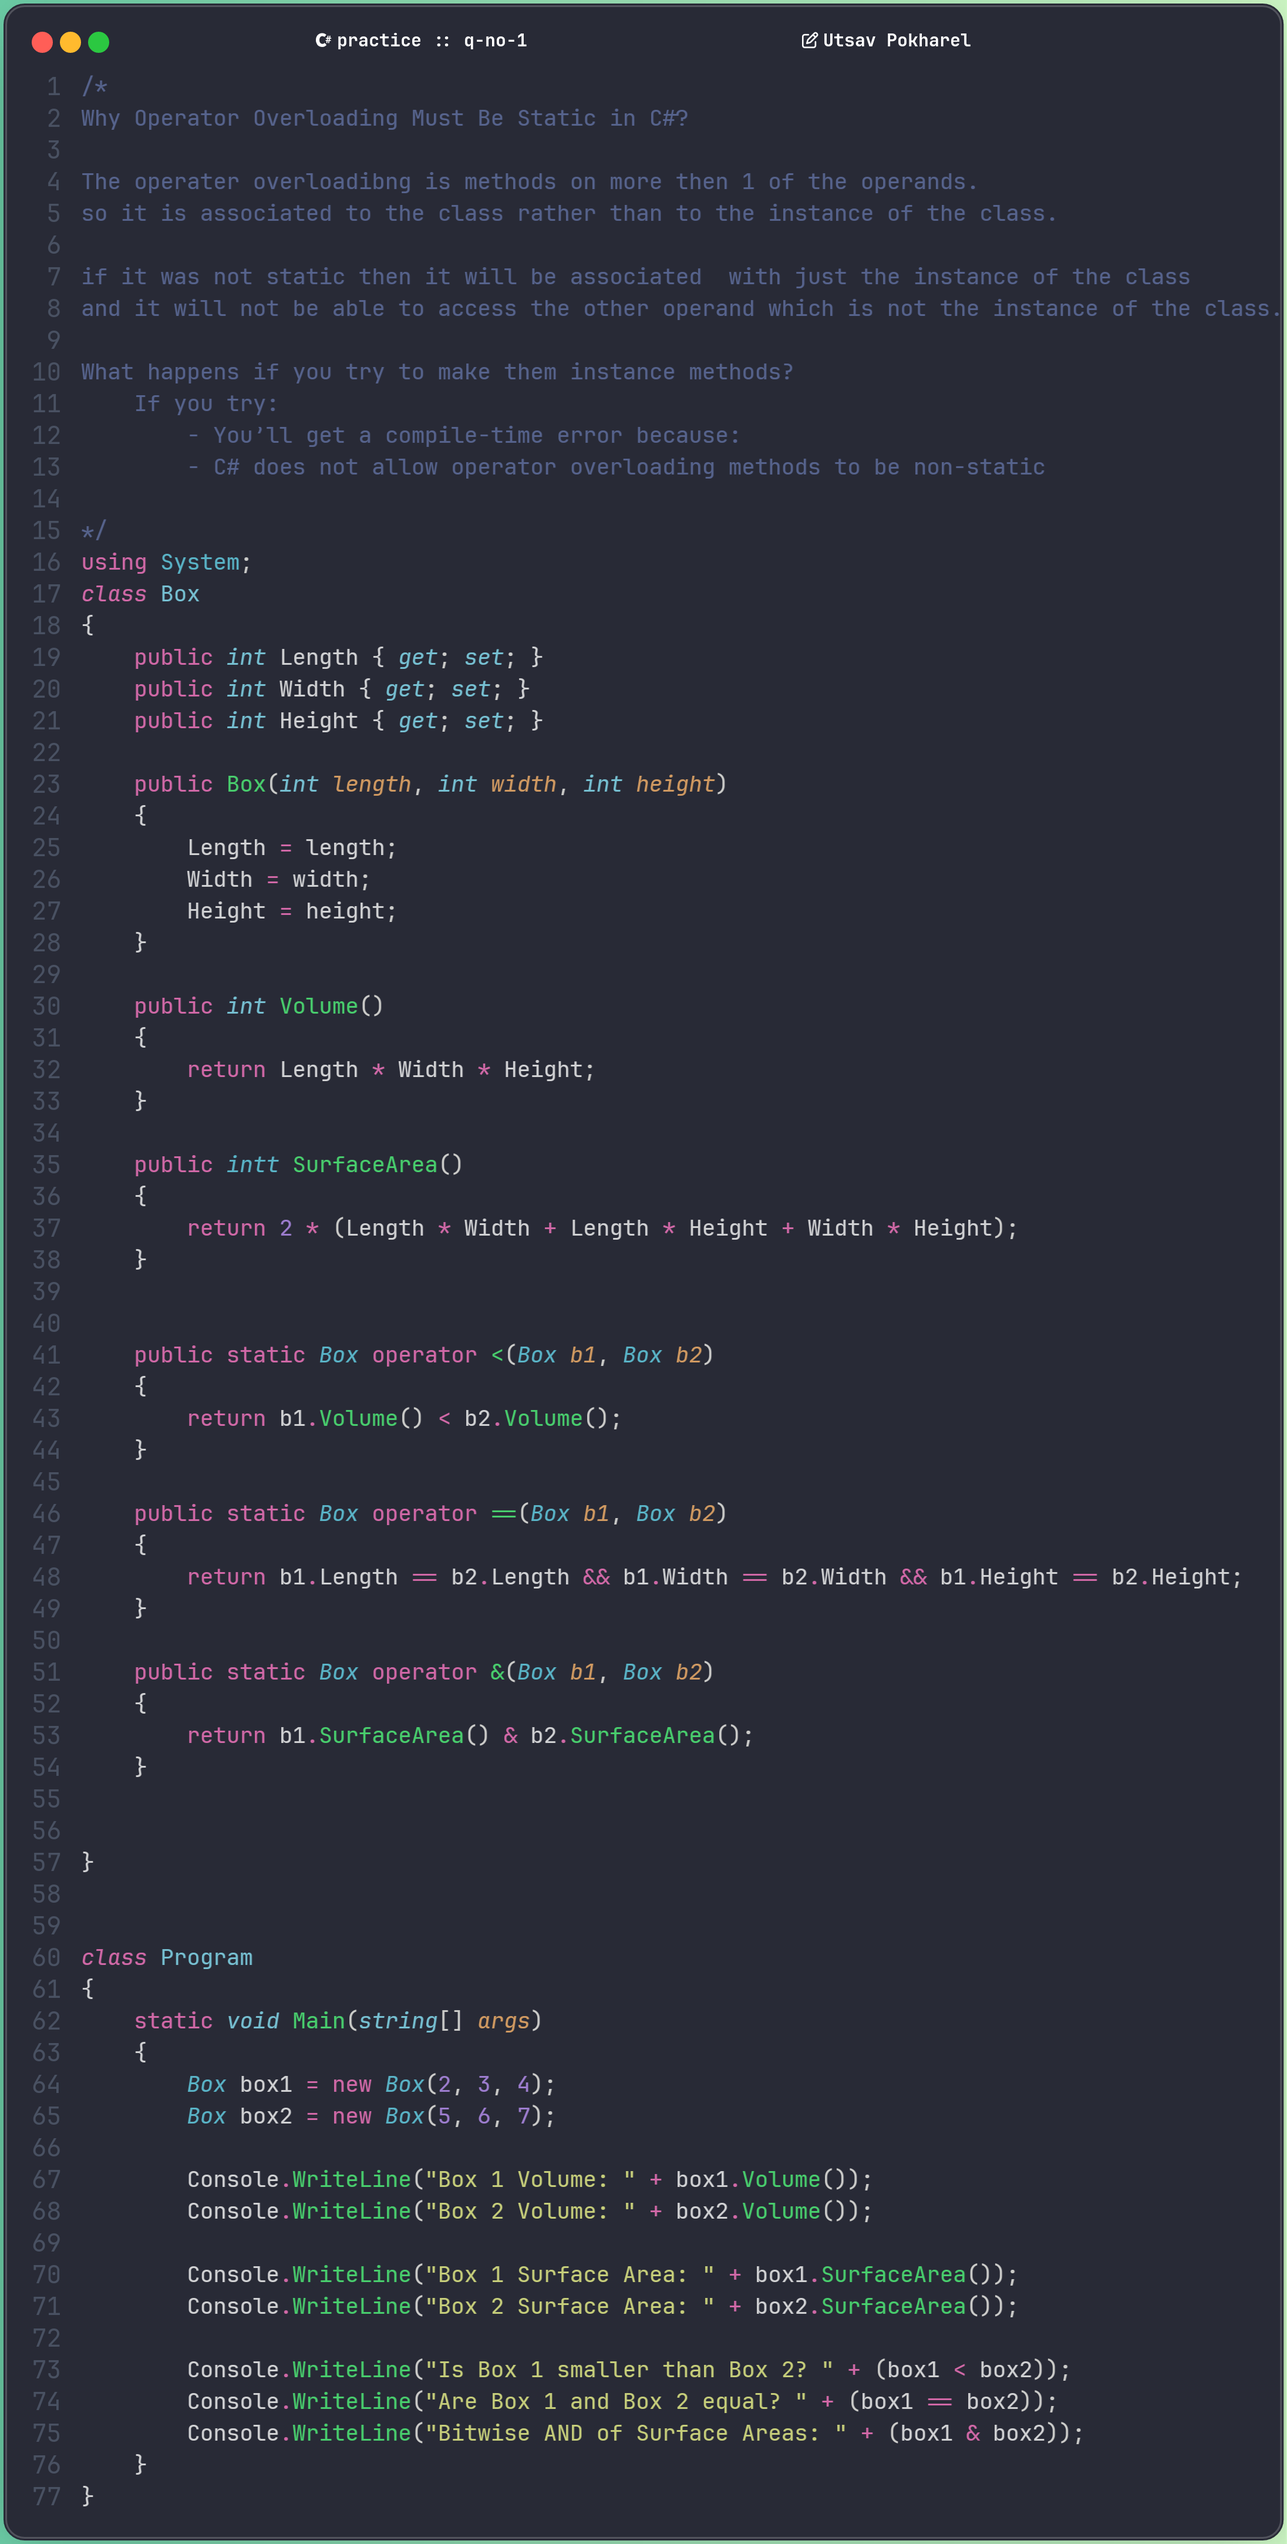
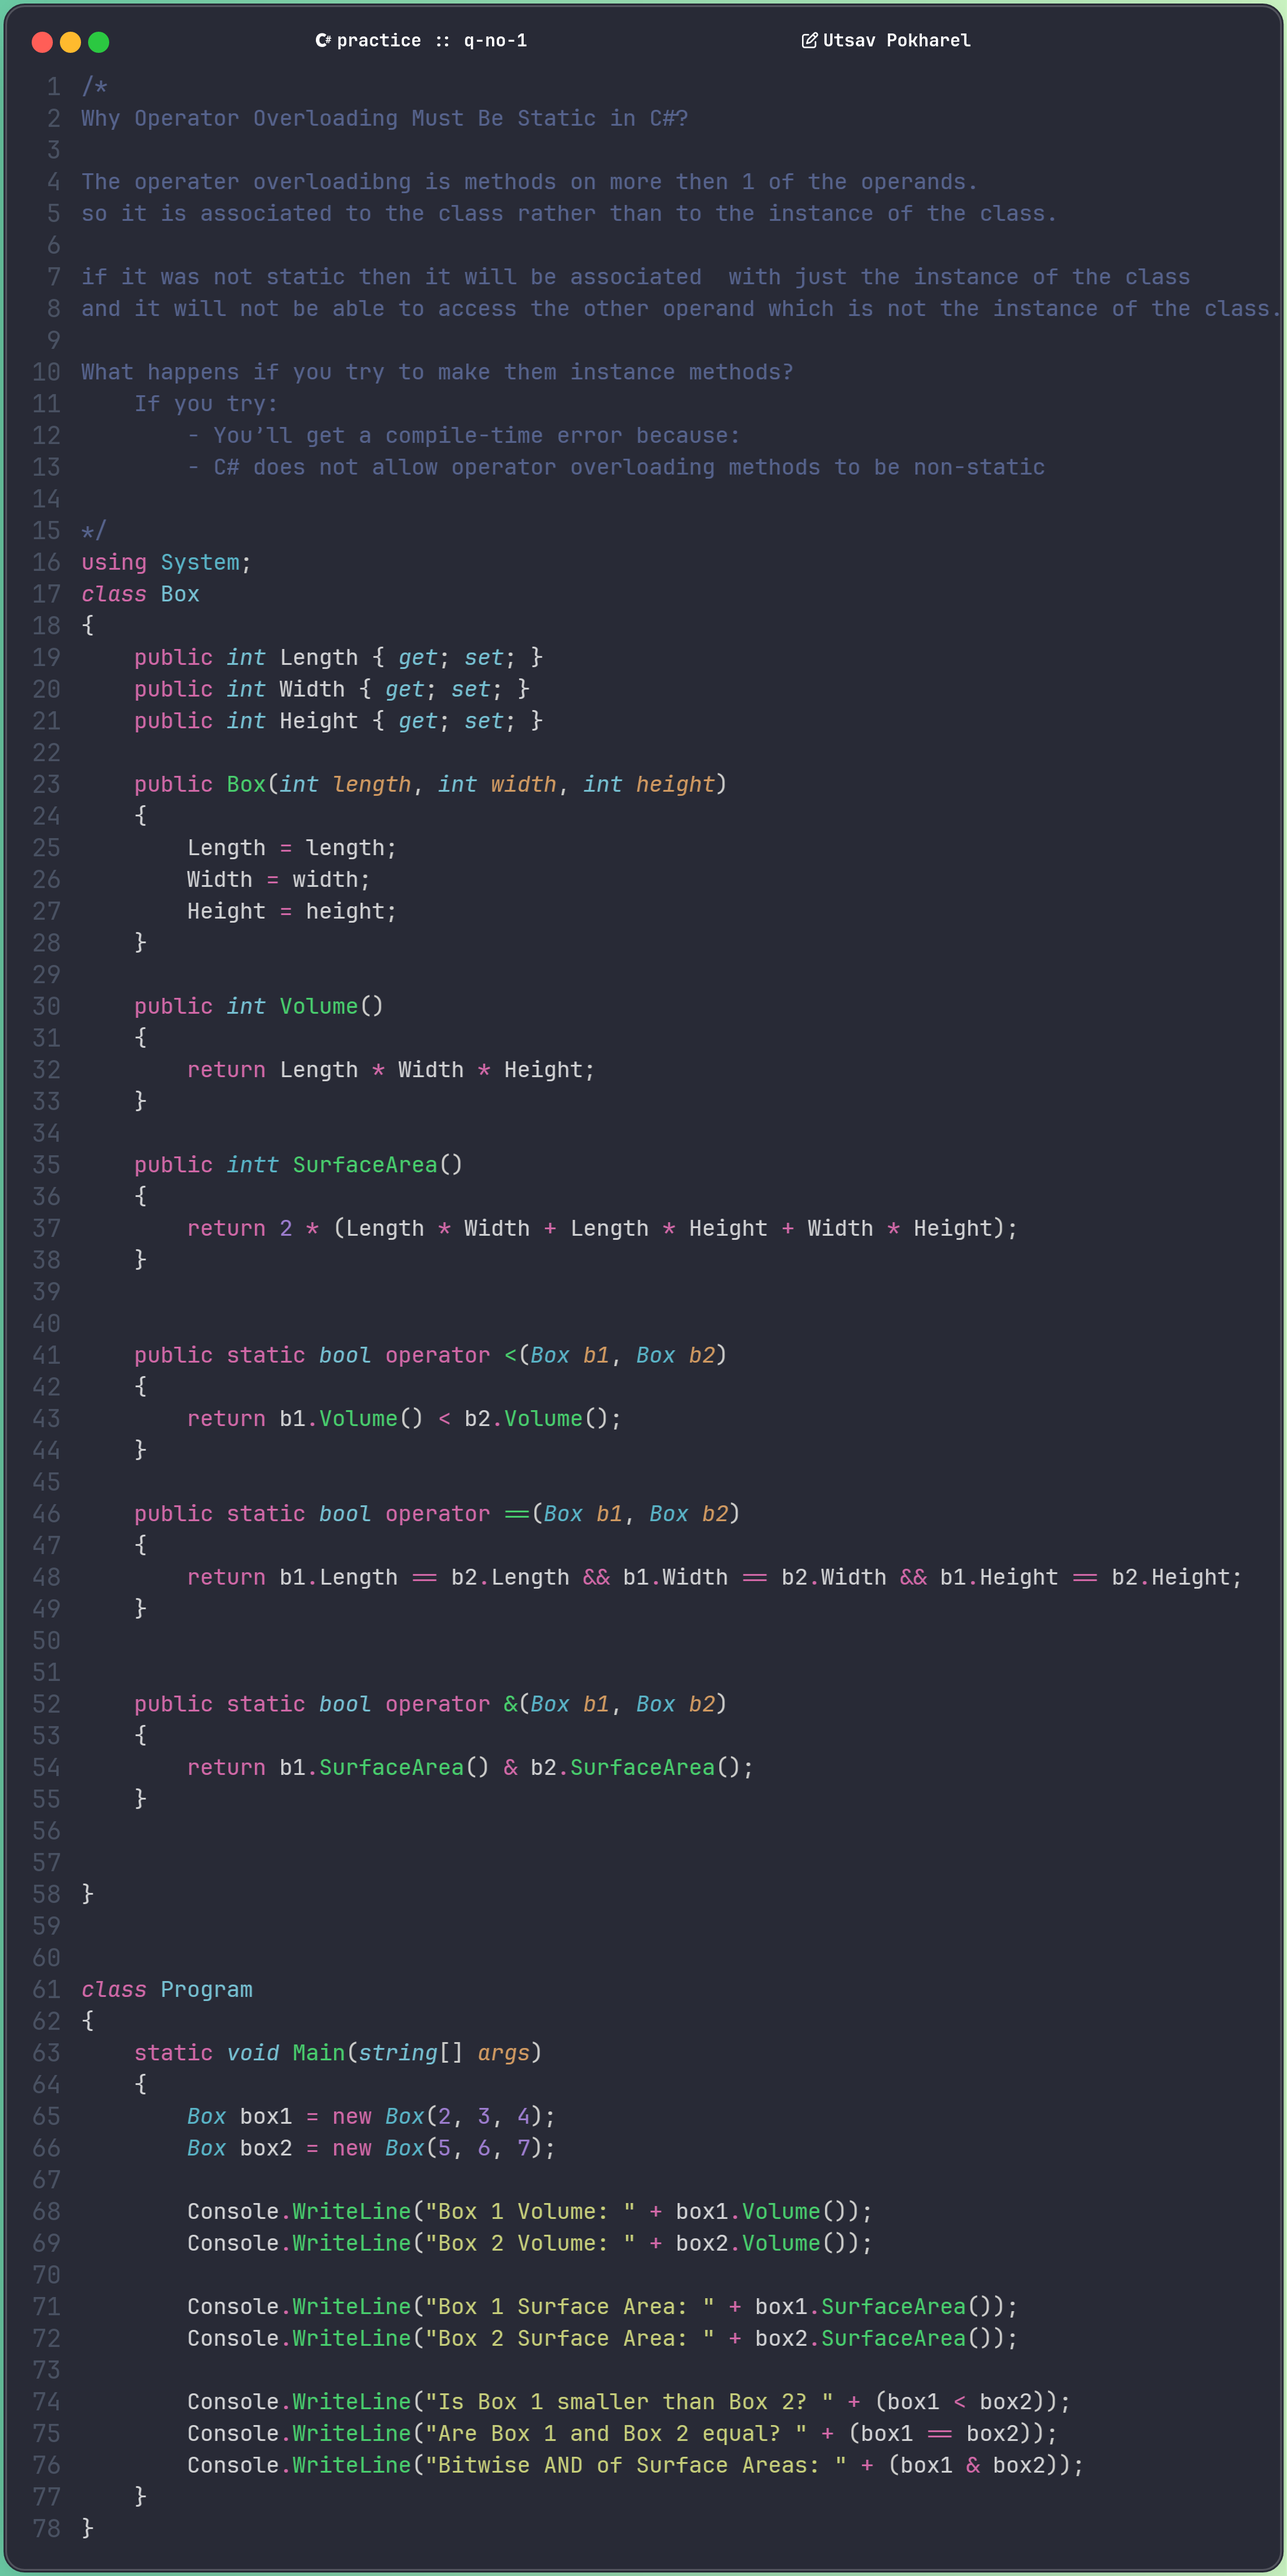
addded\

diff --git a/practice/console-calculaor.cs b/practice/console-calculaor.cs
@@ -1,0 +1,63 @@
+/*
+Wap to make a console calculator for add,  sub,  div only using multiple inheritance
+*/
+
+using System;
+
+// Interface for Addition
+interface IAddition
+{
+    double Add(double a, double b);
+}
+
+// Interface for Subtraction
+interface ISubtraction
+{
+    double Subtract(double a, double b);
+}
+
+// Interface for Division
+interface IDivision
+{
+    double Divide(double a, double b);
+}
+
+// Calculator class implementing multiple interfaces
+class Calculator : IAddition, ISubtraction, IDivision
+{
+    public double Add(double a, double b)
+    {
+        return a + b;
+    }
+
+    public double Subtract(double a, double b)
+    {
+        return a - b;
+    }
+
+    public double Divide(double a, double b)
+    {
+        if (b == 0)
+        {
+            Console.WriteLine("Cannot divide by zero!");
+            return 0;
+        }
+
+        return a / b;
+    }
+}
+
+class Program
+{
+    static void Main()
+    {
+        Calculator calc = new Calculator();
+
+        double a = 10;
+        double b = 5;
+
+        Console.WriteLine("Addition: " + calc.Add(a, b));
+        Console.WriteLine("Subtraction: " + calc.Subtract(a, b));
+        Console.WriteLine("Division: " + calc.Divide(a, b));
+    }
+}

diff --git a/practice/display-bcq-sub-indexer.cs b/practice/display-bcq-sub-indexer.cs
@@ -1,0 +1,47 @@
+/*
+WAP to show bca 5th sem subjects with indexers
+*/
+
+class Subjects
+{
+
+    private List<string> subjectList;
+
+    public Subjects()
+    {
+        subjectList = new List<string>();
+    }
+
+    public string this[int index]
+    {
+        get { return subjectList[index]; }
+        set { subjectList.Insert(index, value); }
+    }
+
+    public void Display()
+    {
+        Console.WriteLine("BCA 5th Semester Subjects:");
+        for (int i = 0; i < subjectList.Count; i++)
+        {
+            Console.WriteLine($"{i + 1}. {subjectList[i]}");
+        }
+    }
+
+
+
+}
+
+class Program
+{
+    static void Main(string[] args)
+    {
+        Subjects subjects = new Subjects();
+        subjects[0] = "Data Structures";
+        subjects[1] = "Database Management Systems";
+        subjects[2] = "Operating Systems";
+        subjects[3] = "Computer Networks";
+        subjects[4] = "Software Engineering";
+
+        subjects.Display();
+    }
+}

diff --git a/practice/q-no-1.cs b/practice/q-no-1.cs
@@ -38,17 +38,18 @@ class Box
     }
 
 
-    public static Box operator <(Box b1, Box b2)
+    public static bool operator <(Box b1, Box b2)
     {
         return b1.Volume() < b2.Volume();
     }
 
-    public static Box operator ==(Box b1, Box b2)
+    public static bool operator ==(Box b1, Box b2)
     {
         return b1.Length == b2.Length && b1.Width == b2.Width && b1.Height == b2.Height;
     }
 
-    public static Box operator &(Box b1, Box b2)
+
+    public static bool operator &(Box b1, Box b2)
     {
         return b1.SurfaceArea() & b2.SurfaceArea();
     }

diff --git a/practice/define-class-named-matrix.cs b/practice/define-class-named-matrix.cs
@@ -17,7 +17,7 @@ class Matrix
         cols = arr.GetLength(1);
     }
 
-
+ 
     /*
     Indexer to access matrix elements
         - Allows us to use the syntax m[i, j] to access the element at row i and column j of the matrix.
